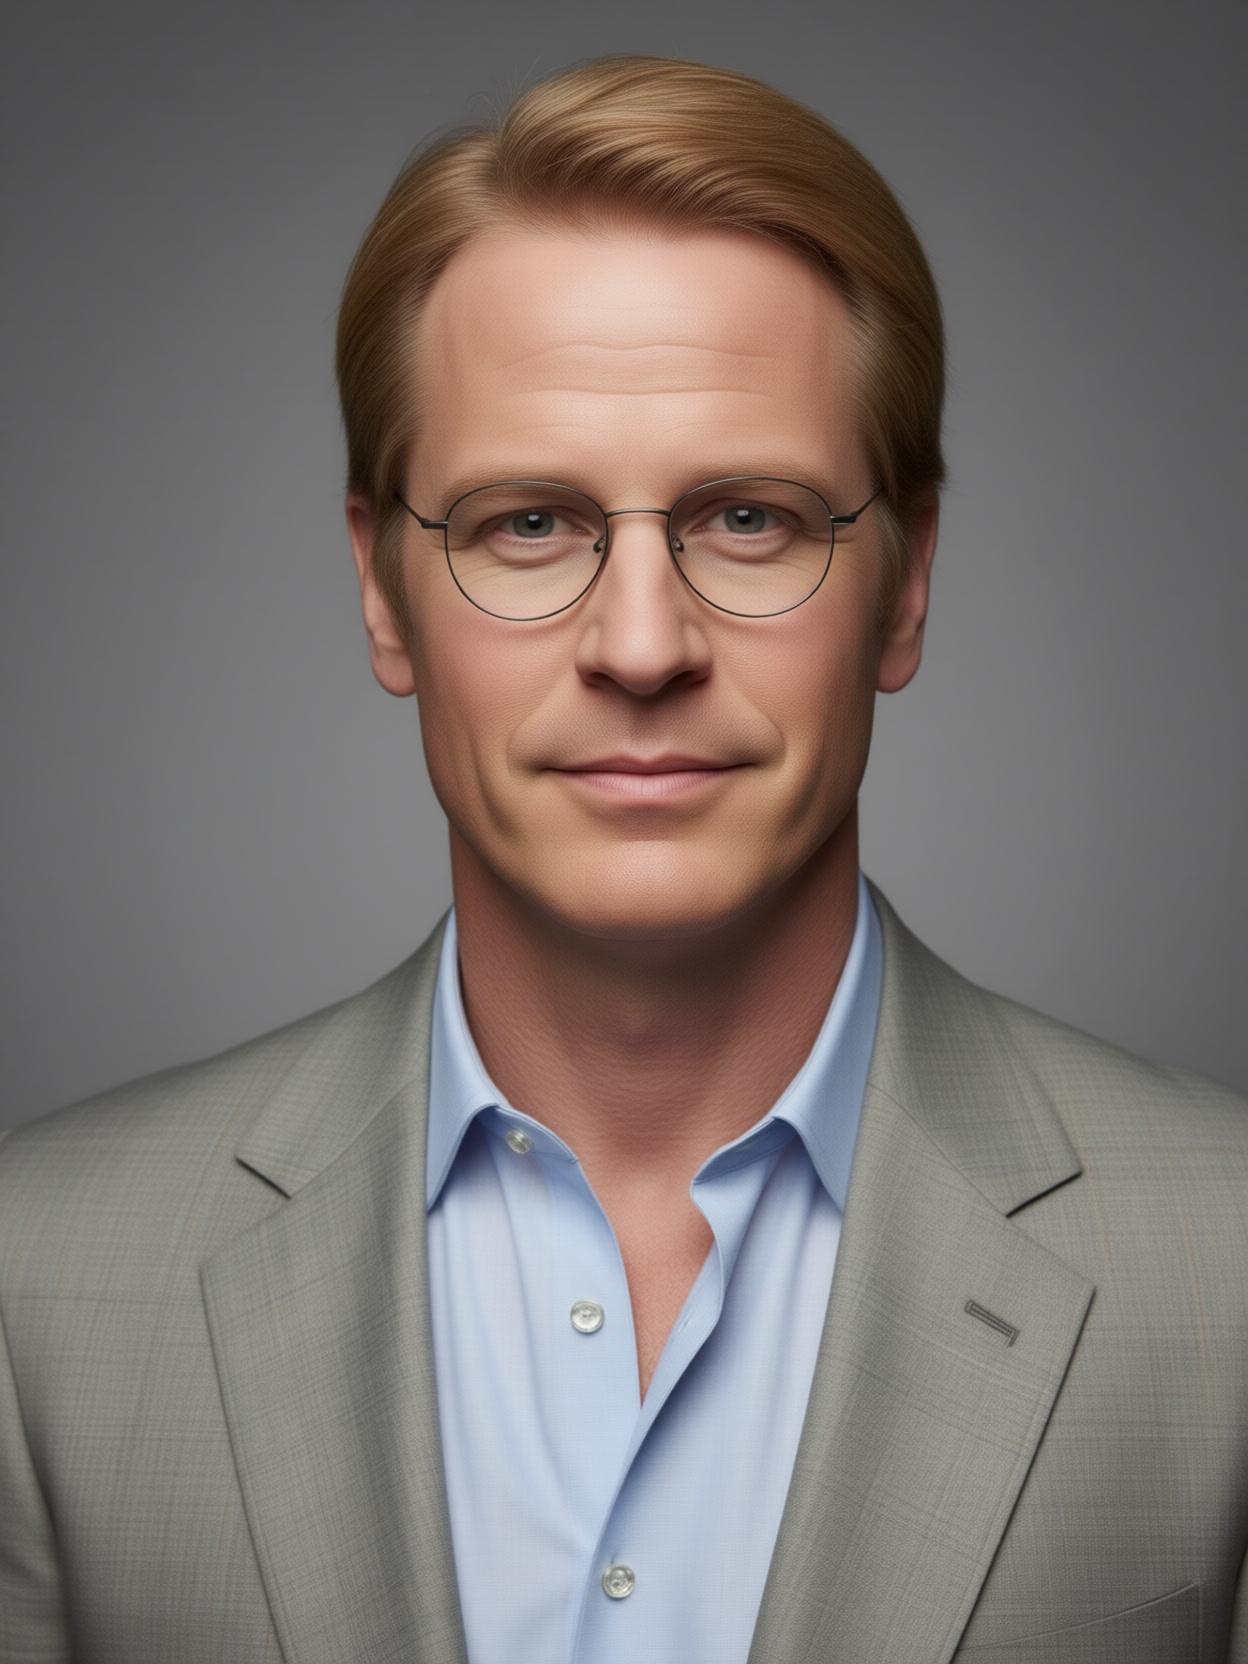
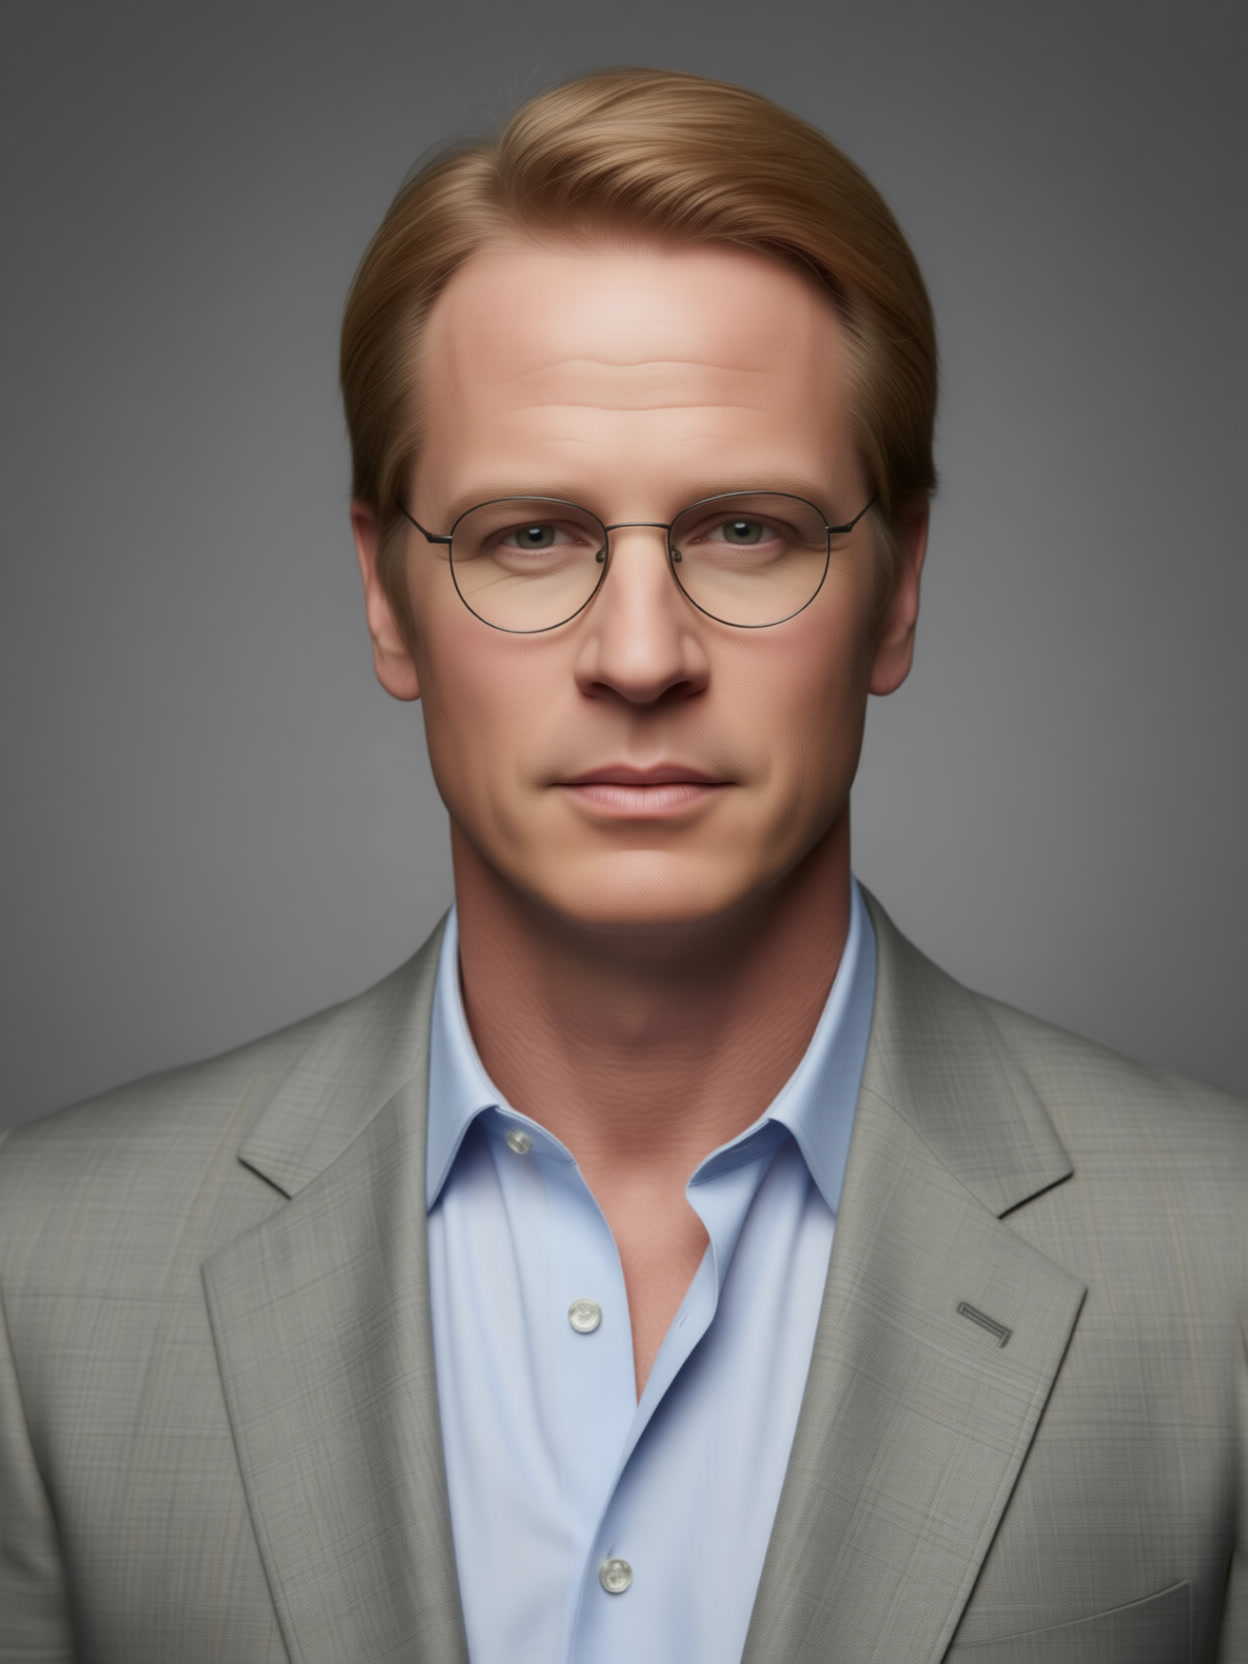
docs(drama): Till the Verdict swaps in the fixed portraits
The owner took the recommended r3 takes: Nora's portrait b and work look
a without the red marks, Grant's portrait b without the smile.

Claude-Session: https://claude.ai/code/session_017c4QxUsvPrQEPyJ3b3c6WY

diff --git a/docs/videos/series-plans/top40-2025-2026/2025-15-xingde-xiangyu/western/production/assets/refs/README.md b/docs/videos/series-plans/top40-2025-2026/2025-15-xingde-xiangyu/western/production/assets/refs/README.md
@@ -6,15 +6,17 @@ Use these as `<Picture N>` references for Ref2VA clips and as image 1 for any ne
 
 | File | Source take | Seed | Original PNG sha256 |
 | --- | --- | --- | --- |
-| nora-portrait.jpg | r1 nora-b | 711001 | 74fbc5d10dd2ab5b3f5196447113e0082d518965cebe8178c6b12a008b8620c7 |
+| nora-portrait.jpg | r3 nora-portrait-fix-b (exactly one change on the 2026-11-10 pick; see the screen-test README 〈定妝照修圖 r3〉) | 713001 | be2e49a63ee5fd178da42dbd05a23429a3c5288e99083a77ca69fe662660e62c |
 | elias-portrait.jpg | r1 elias-a | 711002 | 88706d26c0136dc81ce2eb6c31248534ba7e460d5aa9e2a7ee3b1e4fdf2078c8 |
-| grant-portrait.jpg | r1 grant-a | 711004 | 2ba106e6e6913433a34ced8d558a167f86b4382b3937db8d776e61535474ceda |
+| grant-portrait.jpg | r3 grant-portrait-fix-b (exactly one change on the 2026-11-10 pick; see the screen-test README 〈定妝照修圖 r3〉) | 713005 | dde046a36af4438f155cd1532e82e9bf67c6eedcc37445ab163223da8aa4fc58 |
 | peg-portrait.jpg | r1 peg-a | 711006 | 13787db056b7f5d22459d385d1bb582ad3309440e3b3035a3e96b4f281403b17 |
-| nora-work.jpg | r2 nora-work-a (on nora-b) | 712000 | ae2adad0f7f1d76cc1b076ce88f590e474ffb505bfa9222f04c9a8262b7fcfd8 |
+| nora-work.jpg | r3 nora-work-fix-a (exactly one change on the 2026-11-10 pick; see the screen-test README 〈定妝照修圖 r3〉) | 713002 | c31ef29a130671deceb8bbd4d90d4ce3b37d99d7c0b40ac1fd73775a12d565bb |
 | elias-furnace.jpg | r2 elias-furnace-a (on elias-a) | 712001 | 427925000c7cda634d77b7dfe8609567461201c78f636c31fed6f7f300f0469a |
 | peg-coat.jpg | r2 peg-coat-a (on peg-a) | 712002 | 6800ce245a8afc90f464a9750c65d8ce12aab14f0414bd54eb329e184aa8c3ff |
 | set-glass-house-living.jpg | r1 set-glass-house-living-a | 711008 | 382f5b1778d47c6fd4eb20950701ca835a1b958898548bf7886c4f8d8b6aeb70 |
 | set-glass-house-ext.jpg | r1 set-glass-house-ext-a | 711009 | 07b03bdc70bf049adb056c1b757ac0e69c931ee735ee6933db20d41476957e1d |
 | set-remelt.jpg | r1 set-remelt-a | 711010 | 28680f0625c6ea4cfae23530e24aaeaacd990d8cdd4823f6d0f6f127d6750471 |
+
+2026-11-12: `nora-portrait`, `nora-work` (small red marks removed) and `grant-portrait` (closed-mouth smile removed) replaced by the owner's picks from round r3; the r3 manifest is built by `../../screen-test/build.py r3`.
 
 `SHA256SUMS` covers the JPEGs in this folder.

diff --git a/docs/videos/series-plans/top40-2025-2026/2025-15-xingde-xiangyu/western/production/s1-bible-e001-e003.md b/docs/videos/series-plans/top40-2025-2026/2025-15-xingde-xiangyu/western/production/s1-bible-e001-e003.md
@@ -144,4 +144,4 @@ main 2026-11-12 收進種田拍法與共用的分鏡規則（`docs/videos/drama/
 - **「I was on the floor! Alone!」**（站主 2026-11-12）：第 3 集台詞照細綱不改；第 2 集燈柱那場補一鏡（c13b）她左肩貼著燈柱滑坐到門前最上面那級濕台階上，之後那場她一直坐著，衣服乾淨。
   門口：門墊，下面兩級濕石台階，燈柱立在最上面那級的右端。
 - **定妝照**（站主 2026-11-12）：開拍前重修兩張：`nora-portrait.jpg` 去掉左頰與頸部的小紅痕（像傷口）；`grant-portrait.jpg` 改成平臉、嘴閉著、嘴角平（原圖嘴角微揚）。
-  Grant 的眼鏡照原圖是細金屬圓框，`cast.json` 已把 rimless 改成 `thin round metal-rim glasses`（細綱與設定集的英文還寫 rimless，以這裡為準）。
+  已修好換進 `assets/refs/`（2026-11-12，screen-test README〈定妝照修圖 r3〉；`nora-work.jpg` 同樣去掉紅痕）。Grant 的眼鏡照原圖是細金屬圓框，`cast.json` 已把 rimless 改成 `thin round metal-rim glasses`（細綱與設定集的英文還寫 rimless，以這裡為準）。

diff --git a/docs/videos/series-plans/top40-2025-2026/2025-15-xingde-xiangyu/western/production/screen-test/README.md b/docs/videos/series-plans/top40-2025-2026/2025-15-xingde-xiangyu/western/production/screen-test/README.md
@@ -99,5 +99,5 @@ bash $K/h3.sh stop --session ttv-st1 && bash $K/bootstrap.sh patch && bash $K/h3
 
 - Colab 這次分到 A100（RTX PRO 6000），每小時約 10 CU；出圖 session 約 15 分鐘，帳號 b 餘額 2,020.63 → 2,019.08（約 −1.6）。
 - 圖在雲端硬碟 `AI/備份/AI劇/婚約到他判刑那天為止（歐美版）/_共用/製作檔/screen-test/`（`todrive.sh` 23 files, 0 differences）。
-- 站主選定後換進 `../assets/refs/`、重算 `SHA256SUMS`。
+- 站主 2026-11-12 照建議選 Nora b、Grant b、Nora 工作服 a，已換進 `../assets/refs/`、重算 `SHA256SUMS`。
 
